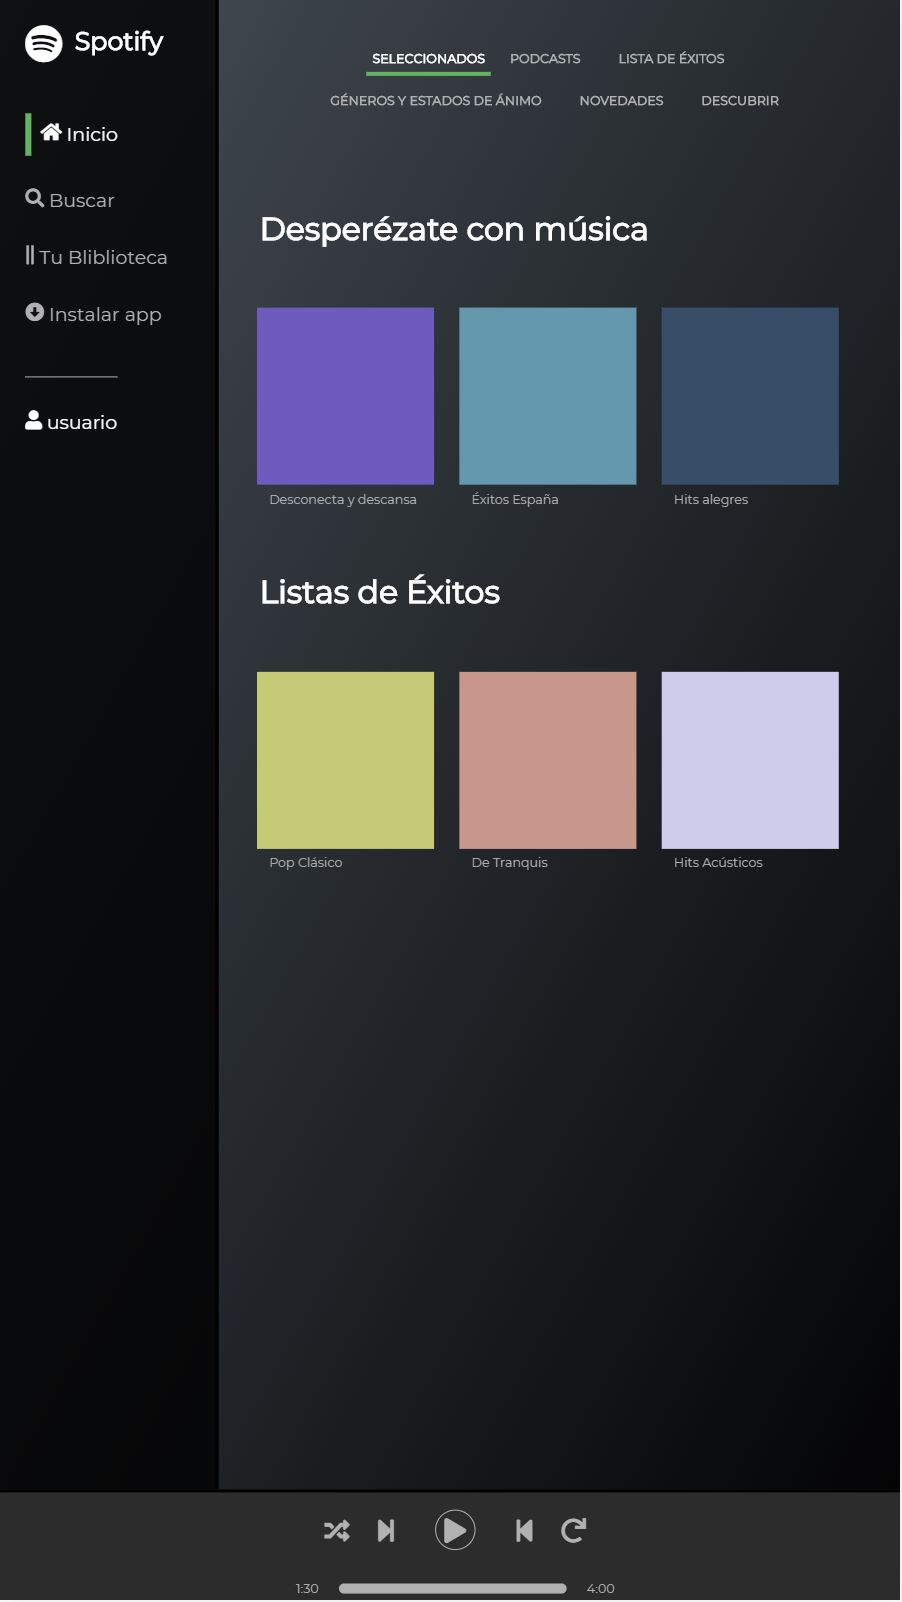
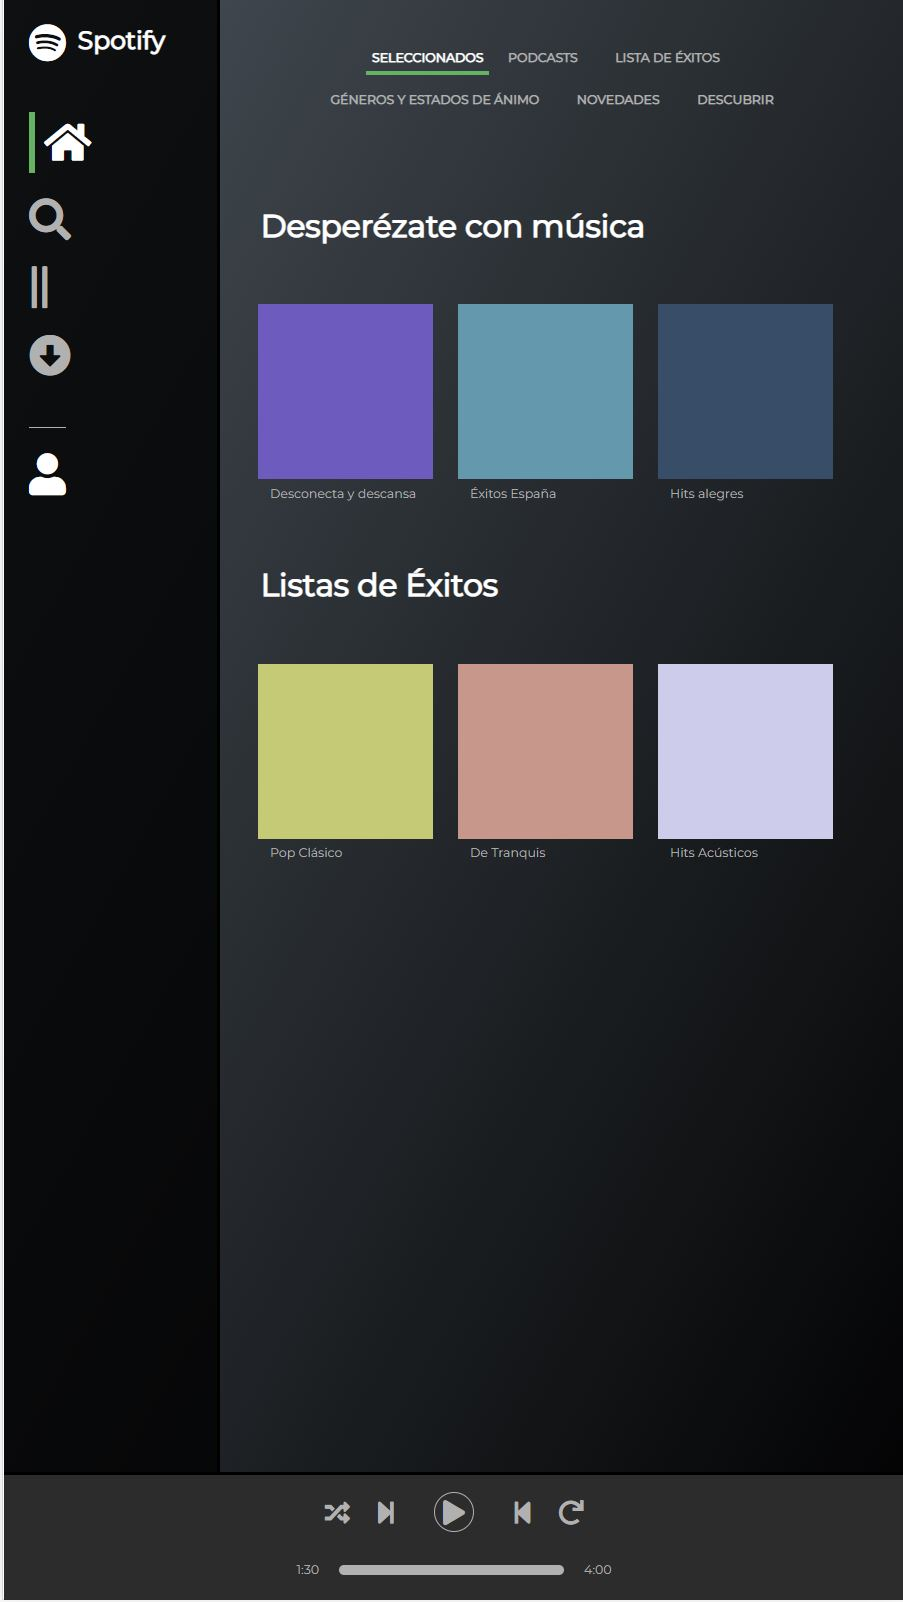
changes in mobile version

diff --git a/staff/alicia-alcaide/spotify-template/index.html b/staff/alicia-alcaide/spotify-template/index.html
@@ -21,34 +21,34 @@
                 <ul class="nav-items">
                     <li class="item">
                         <a href="#" class="item__link item__link--selected">
-                            <i class="fas fa-home link__icon"></i>
-                            <p class="link__name">Inicio</p>
+                            <i class="fas fa-home link__icon link__icon--small"></i>
+                            <p class="link__name link__name--see-in-mobile">Inicio</p>
                         </a>
                     </li>
                     <li class="item">
                         <a href="#" class="item__link">
-                            <i class="fas fa-search link__icon"></i>
-                            <p class="link__name">Buscar</p>
+                            <i class="fas fa-search link__icon link__icon--small"></i>
+                            <p class="link__name link__name--see-in-mobile">Buscar</p>
                         </a>
                     </li>
                     <li class="item">
                         <a href="#" class="item__link">
-                            <i class="fas fa-grip-lines-vertical  link__icon"></i>
-                            <p class="link__name">Tu Bliblioteca</p>
+                            <i class="fas fa-grip-lines-vertical  link__icon link__icon--small"></i>
+                            <p class="link__name link__name--see-in-mobile">Tu Bliblioteca</p>
                         </a>
                     </li>
                     <li class="item">
                         <a href="#" class="item__link">
-                            <i class="fas fa-arrow-alt-circle-down link__icon"></i>
-                            <p class="link__name">Instalar app</p>
+                            <i class="fas fa-arrow-alt-circle-down link__icon link__icon--small"></i>
+                            <p class="link__name link__name--see-in-mobile">Instalar app</p>
                         </a>
                     </li>
                 </ul>                           
                 
                 <div class="user-info item">
                     <a href="#" class="user-info__link item__link">
-                        <i class="fas fa-user user-info__icon"></i>
-                        <p class="user-info__name link__name">usuario</p>        
+                        <i class="fas fa-user user-info__icon link__icon--small"></i>
+                        <p class="user-info__name link__name link__name--see-in-mobile">usuario</p>        
                     </a>
                 </div>
 

diff --git a/staff/alicia-alcaide/spotify-template/style.css b/staff/alicia-alcaide/spotify-template/style.css
@@ -90,6 +90,14 @@ body {
   padding-left: 0.25em;
 }
 
+.link__name--see-in-mobile {
+  display: none;
+}
+
+.link__icon--small {
+  font-size: 2.25em;
+}
+
 .item__link--selected {
   padding: 0.5em;
   color: #fff;
@@ -332,14 +340,35 @@ body {
   display: none;
 }
 
+@media only screen and (min-device-width: 720px) {
+  body {
+    font-size: 20px;
+  }
+
+  .link__name--see-in-mobile {
+    display: block;
+  }
+}
 @media only screen and (min-device-width: 768px) {
   body {
     font-size: 20px;
+  }
+
+  .link__icon--small {
+    font-size: 1em;
   }
 }
 @media only screen and (min-device-width: 990px) {
   body {
     font-size: 22px;
+  }
+
+  .link__name--see-in-mobile {
+    display: block;
+  }
+
+  .link__icon--small {
+    font-size: 1em;
   }
 
   .grid__item--see-in-tablet {
@@ -349,6 +378,14 @@ body {
 @media only screen and (min-device-width: 1200px) {
   body {
     font-size: 18px;
+  }
+
+  .link__name--see-in-mobile {
+    display: block;
+  }
+
+  .link__icon--small {
+    font-size: 1em;
   }
 
   .grid__item--see-in-tablet {

diff --git a/staff/alicia-alcaide/spotify-template/style/index.sass b/staff/alicia-alcaide/spotify-template/style/index.sass
@@ -50,15 +50,37 @@ body
 @import components/view.sass
 
 
+@media only screen and (min-device-width : 720px)
+    //big mobile
+    body
+        font-size: 20px
+
+    .link__name--see-in-mobile
+        display: block
+
+
+
 @media only screen and (min-device-width : 768px)
     //tablet portrait
     body
         font-size: 20px
 
+    .link__icon--small
+        font-size: 1em
+
+
+
 @media only screen and (min-device-width : 990px)
     //tablet landscape
     body
         font-size: 22px        
+
+    .link__name--see-in-mobile
+        display: block
+
+    .link__icon--small
+        font-size: 1em
+
 
     .grid__item--see-in-tablet
         display: block    
@@ -67,6 +89,12 @@ body
     //laptop
     body
         font-size: 18px        
+
+    .link__name--see-in-mobile
+        display: block
+
+    .link__icon--small
+        font-size: 1em
 
     .grid__item--see-in-tablet
         display: block    

diff --git a/staff/alicia-alcaide/spotify-template/style/components/nav.sass b/staff/alicia-alcaide/spotify-template/style/components/nav.sass
@@ -42,6 +42,12 @@
     padding-left: .25em
 
 
+.link__name--see-in-mobile
+    display: none
+
+.link__icon--small
+    font-size: 2.25em
+
 .item__link--selected
     padding: .5em
     color: $resalted-text-color  
